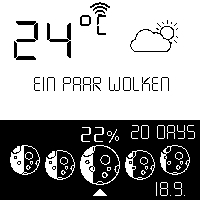
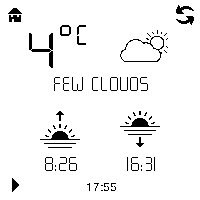
Updated Screenshots

diff --git a/src/Data/Configuration.h b/src/Data/Configuration.h
@@ -13,7 +13,6 @@
 
 #define OPENWEATHERMAP_APIKEY "f058fe1cad2afe8e2ddc5d063a64cecb" //use your own API key :)
 #define TEMP_UNIT "metric" //metric = Celsius , imperial = Fahrenheit
-#define TEMP_LANG "de"
 #define WEATHER_UPDATE_INTERVAL 30 //must be greater than 5, smaller than 255, measured in minutes
 
 //NTP Settings
@@ -28,7 +27,7 @@
 #define DARKMODE_END_M 30
 
 // Possible Values LANG_EN, LANG_DE, LANG_FR
-#define LANG_DE
+#define LANG_EN
 
 
 #define STEPS_PER_KM 1400
@@ -46,6 +45,7 @@
 #define CONFIGURATION_H
 #include <Preferences.h>
 #include "../MiteOS.h"
+#include "../lang/lang.h"
 
 #include "../Managers/PhoneConnectionManager.h"
 

diff --git a/src/UI/ActivityPage.cpp b/src/UI/ActivityPage.cpp
@@ -33,6 +33,7 @@ void ActivityPage::drawPage() {
 		mDisplay.drawBitmap(90, 70, steps, 19, 23, FOREGROUND_COLOR);
 	}
 	drawButtonIcon(BTN_CONFIRM, icon_right);
+	drawButtonIcon(BTN_HOME, icon_home);
 }
 
 

diff --git a/src/lang/lang_fr.h b/src/lang/lang_fr.h
@@ -55,6 +55,7 @@
 #define TXT_ALARM_IN TXT_ALARM " dans:"
 #define TXT_MIN_CAPS "MIN"
 
+#define TEMP_LANG "fr"
 #define TXT_CHIP "Puce"
 
 #define TXT_BOND "Conn. Tele."

diff --git a/src/lang/lang_de.h b/src/lang/lang_de.h
@@ -55,6 +55,7 @@
 #define TXT_ALARM_IN TXT_ALARM " in:"
 #define TXT_MIN_CAPS "MIN"
 
+#define TEMP_LANG "de"
 #define TXT_CHIP "Chip"
 
 #define TXT_BOND "Handy verb."

diff --git a/src/lang/lang_en.h b/src/lang/lang_en.h
@@ -55,6 +55,7 @@
 #define TXT_ALARM_IN TXT_ALARM " in:"
 #define TXT_MIN_CAPS "MIN"
 
+#define TEMP_LANG "en"
 #define TXT_CHIP "Chip"
 
 #define TXT_BOND "Bond Phone"

diff --git a/README.md b/README.md
@@ -79,6 +79,7 @@ Screenshots
 <img src="img/pokemon_watchface.jpg"  width="120" height="120">
 <img src="img/step_tracker.jpg"  width="120" height="120">
 <img src="img/weather.jpg"  width="120" height="120">
+<img src="img/moon.jpg"  width="120" height="120">
 <img src="img/alarms.jpg"  width="120" height="120">
 <img src="img/app_page.jpg"  width="120" height="120">
 <img src="img/hass.jpg"  width="120" height="120">
